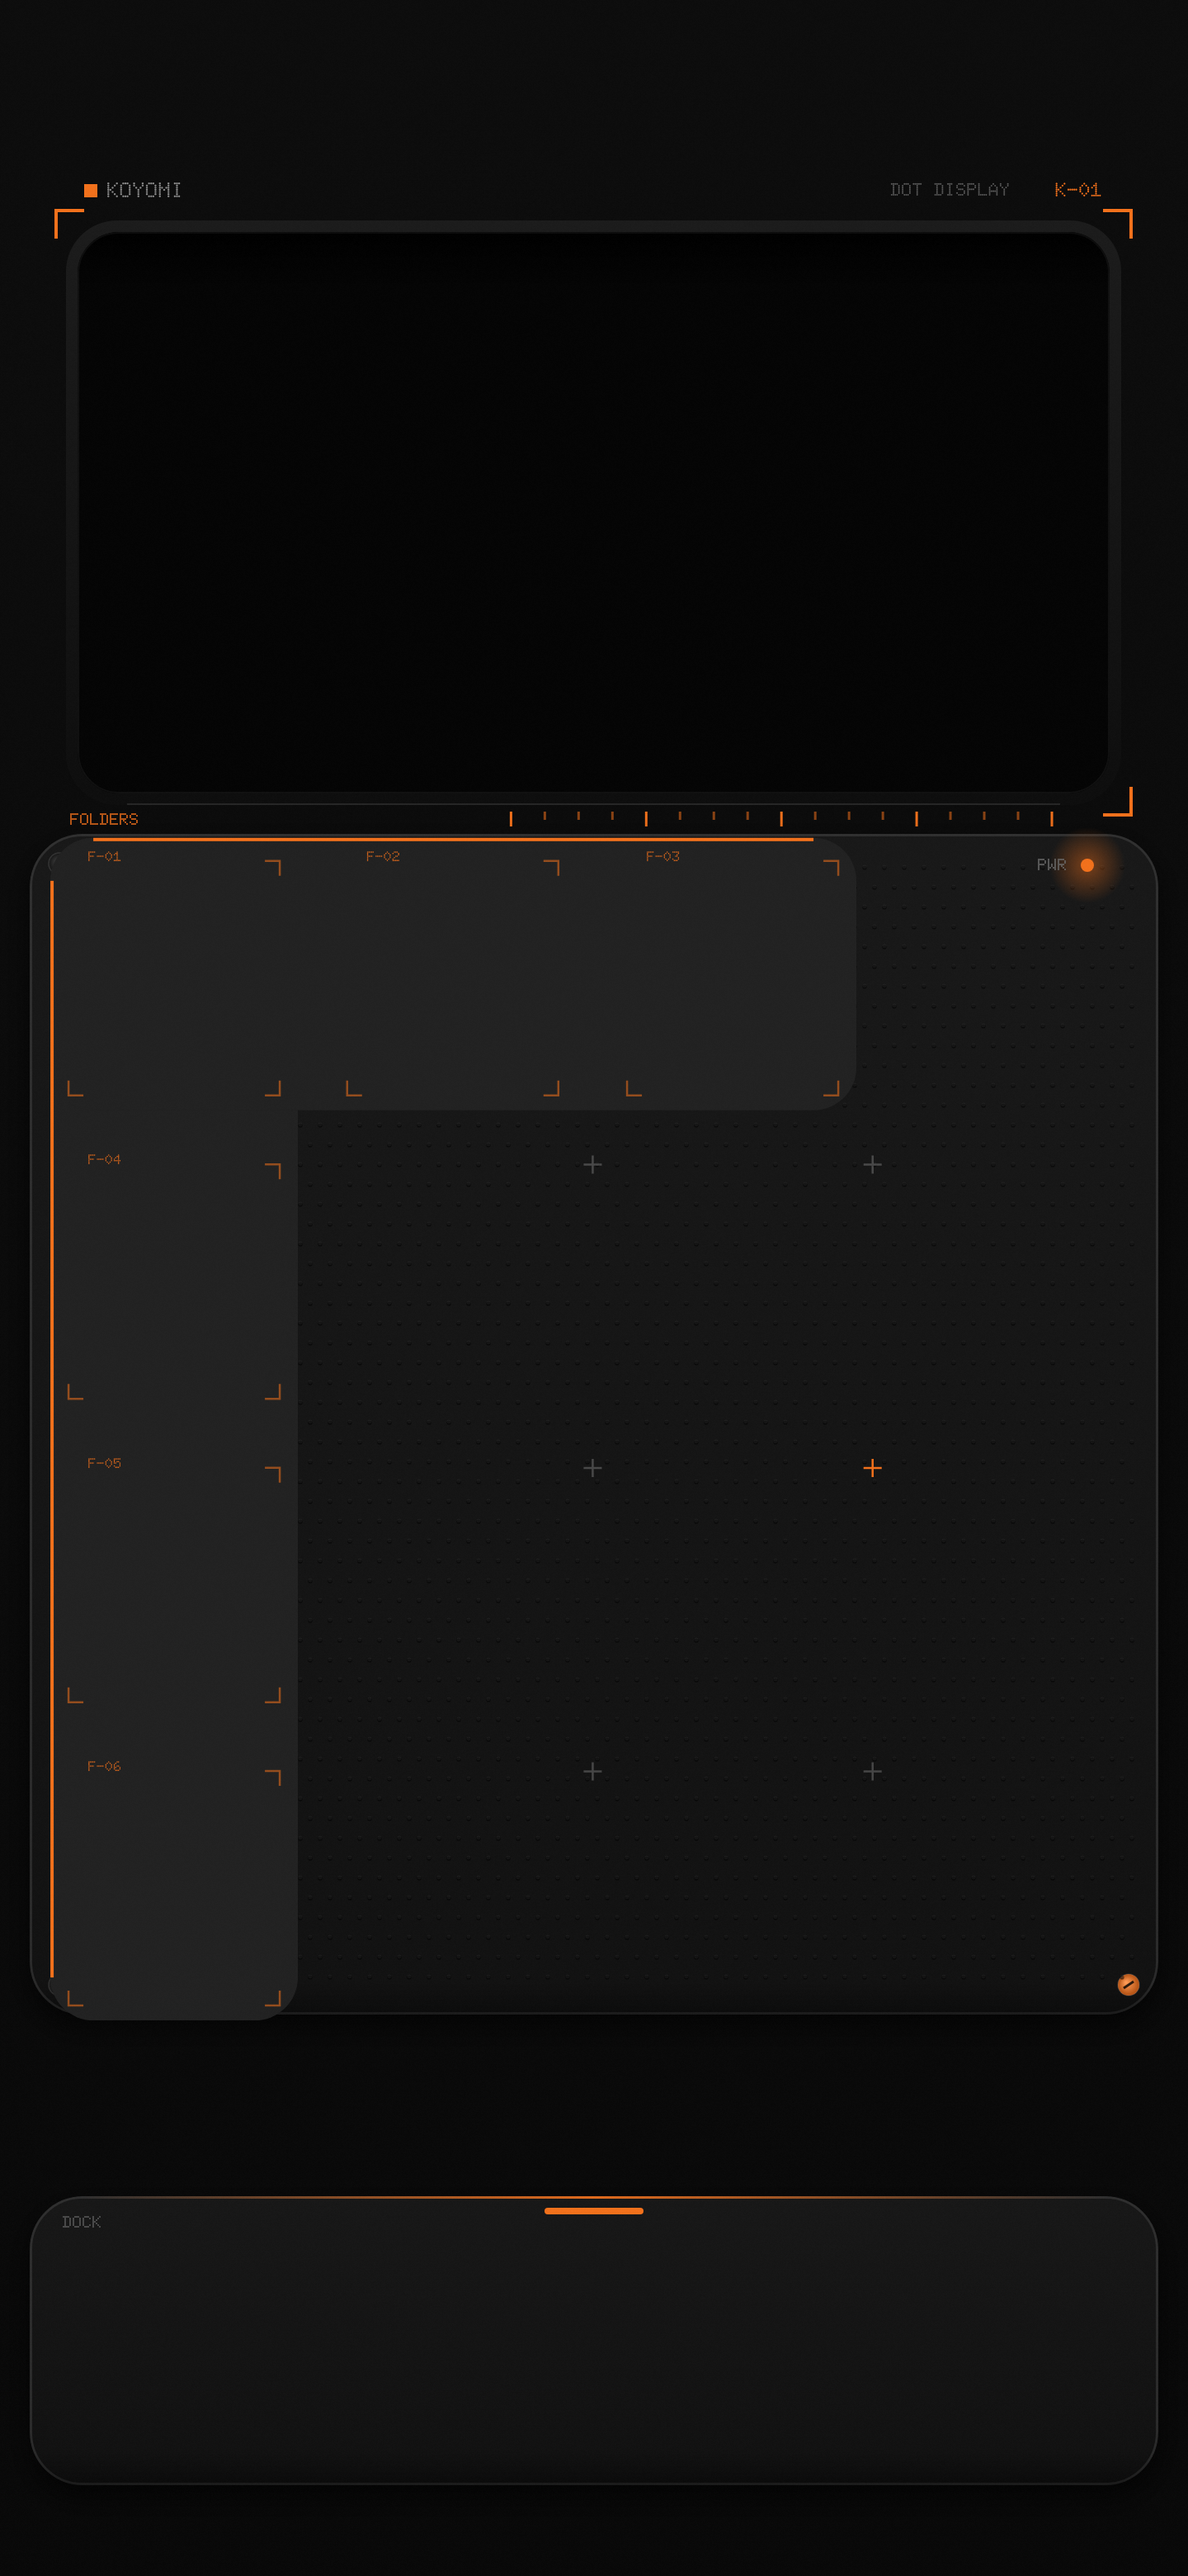
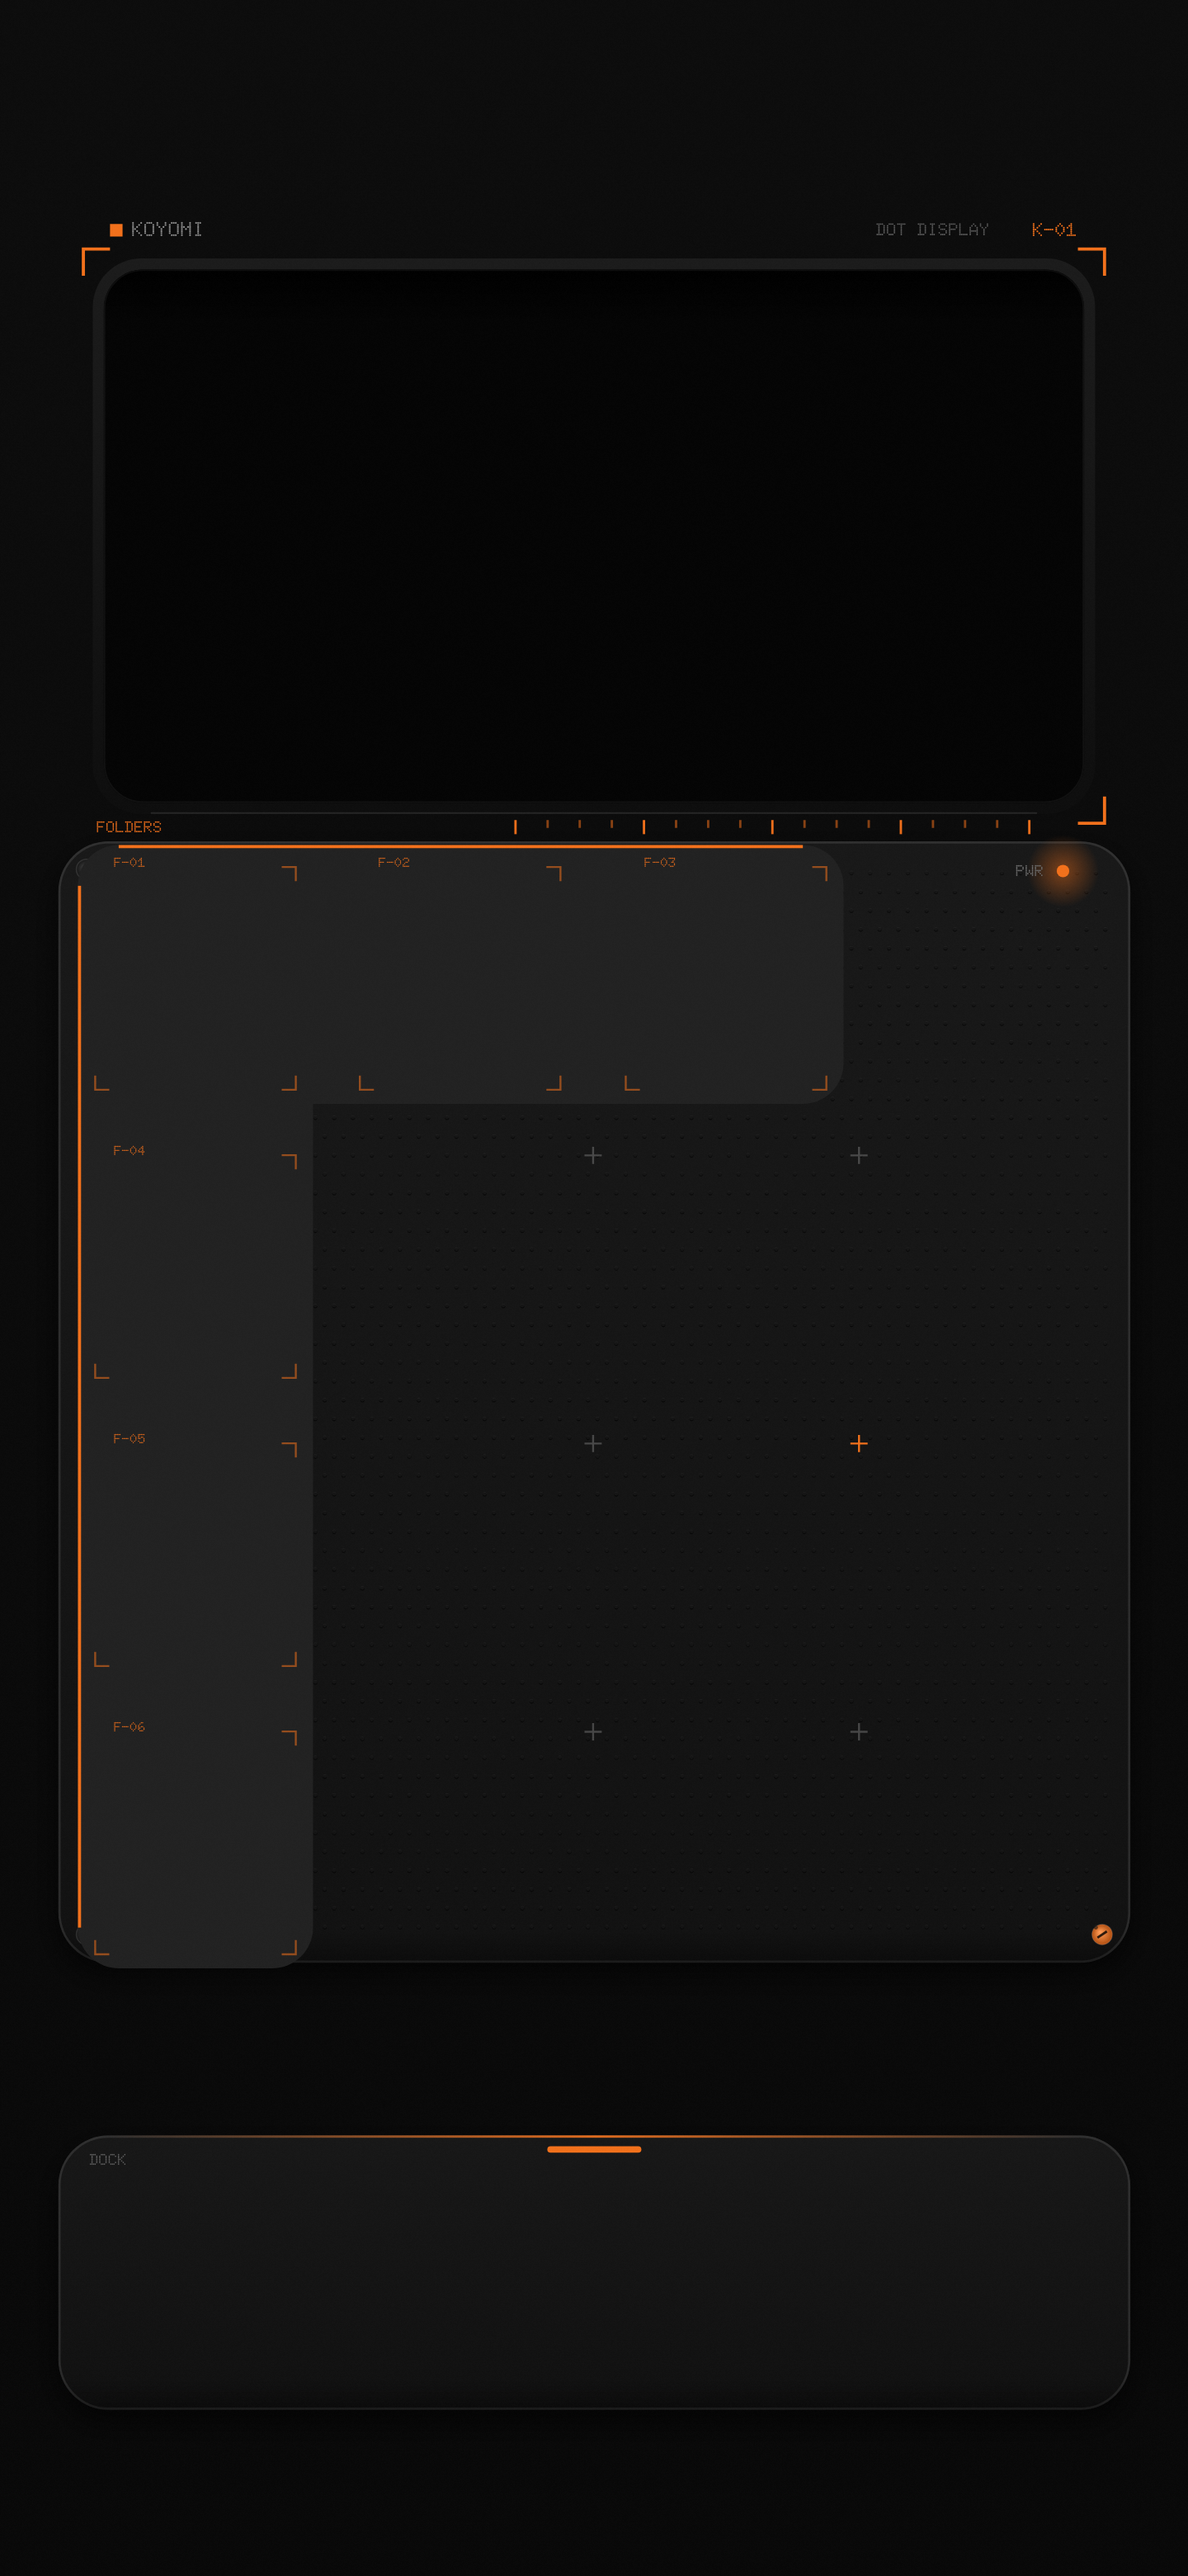
壁紙: 実機の拡大表示に合わせて位置を補正、新デザイン案3種を追加
- 実機スクショから壁紙の表示変換(約1.05倍・上寄せ)を実測し、
  道具感版のホーム/ロック画面をその拡大を打ち消す配置に更新
- 新案 C1 HAIRLINE / C2 DOT FIELD / C3 FACEPLATE(ホーム・ロック)を追加
- 実機のアイコン・ウィジェット・通知を重ねた確認画像を同梱

Claude-Session: https://claude.ai/code/session_0179icErXwPdFdgioC6p5f9V

diff --git a/docs/wallpapers/README.md b/docs/wallpapers/README.md
@@ -18,3 +18,20 @@
 
 フォルダの位置は現在の配置(左列4つ+上段の左から3つ)に合わせています。
 おすすめ: 「ドット」= テーマ「ダーク」・透明度100%。
+
+## 端末に合わせた位置補正(2026-11)
+
+ランチャーは壁紙を約1.05倍に拡大し、やや上寄せで表示する(ホーム・ロックとも同じ。実機スクショから
+画面 = (-32.2, -52.5) + 0.8831 × 画像 [1208×2624 の画面座標] と実測)。
+`koyomi-monolith-tool.png` / `koyomi-monolith-lock.png` はこの拡大を打ち消す配置に更新済み。
+`preview-fit.png` は実機スクショのアイコン・ウィジェット・通知を重ねた確認画像。
+
+## 新デザイン案 (`concepts/`)
+
+| 案 | 方向性 |
+|---|---|
+| C1 HAIRLINE | 細線グリッドとトンボだけ。マットな黒、オレンジはフォルダ枠の縁と目盛りのみ |
+| C2 DOT FIELD | 画面全体が消灯したLEDマトリクス。ウィジェット/時計は黒抜き、フォルダ区画と通知の土台だけ点灯 |
+| C3 FACEPLATE | 1枚のアルマイト板に刻んだ継ぎ目、液晶窓、オレンジのアルマイト縁。浮いた板をやめて面一に |
+
+各案 `cN-home.png` / `cN-lock.png`、確認画像 `preview-cN.png`。どれも上記の位置補正込み。
